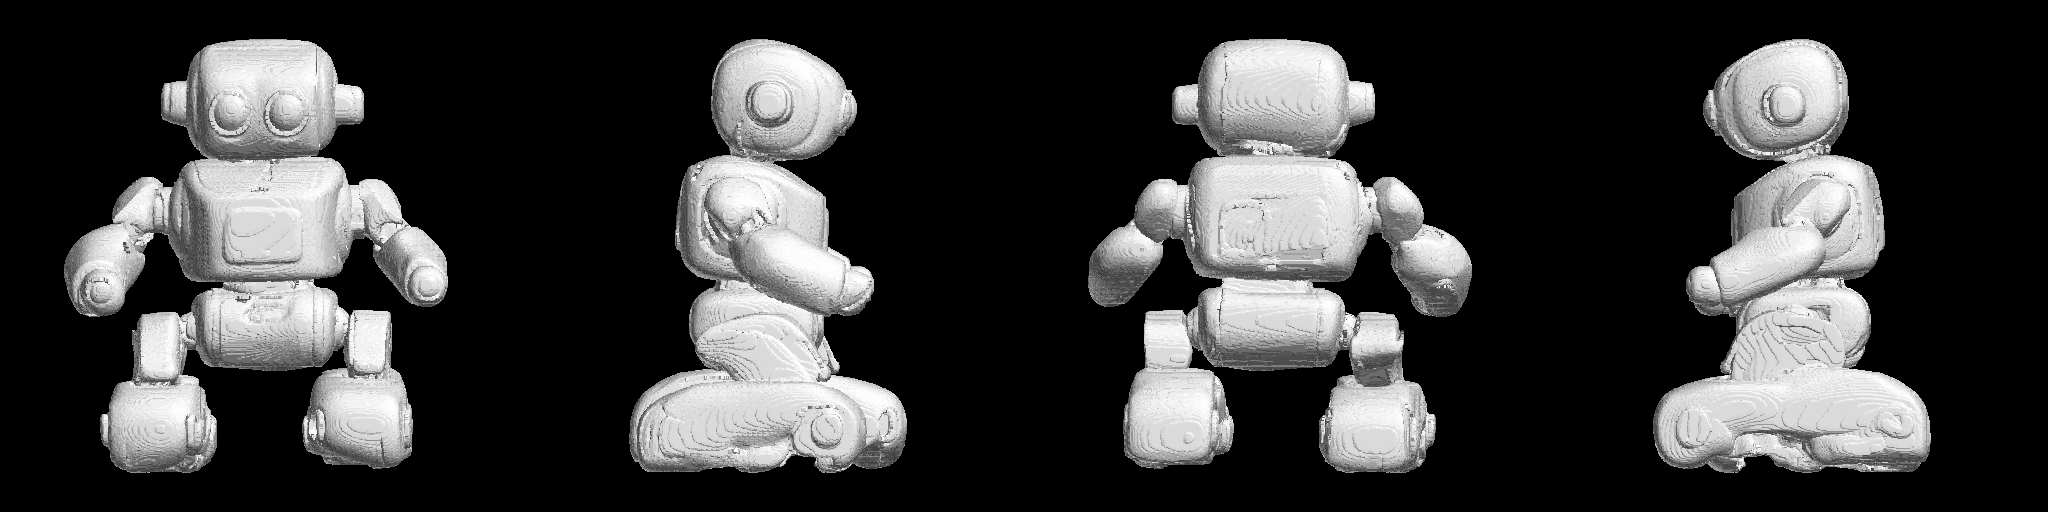
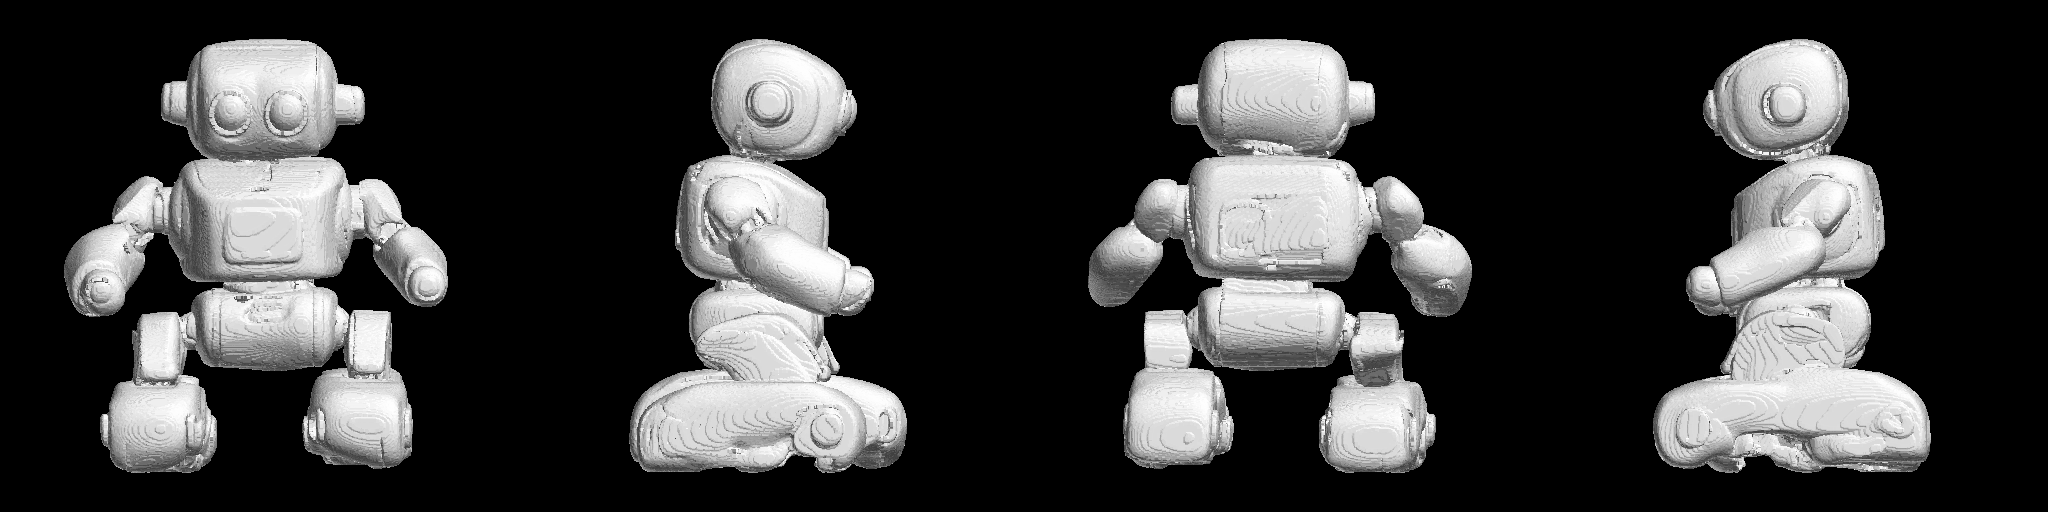
feat(trellis2): five rounds of Taubin take the lattice's terraces off
A surface crossing the lattice at a shallow angle comes out in steps.
Surface nets averages them away where a feature spans several cells and
has nothing to work with where it does not: the dragon's wing membranes
are one or two cells thick and came out as flat terraces a cell apart,
which is what read as the membrane being ruined.

Taubin's second pass is what makes smoothing safe here. The positive pass
is an ordinary Laplacian, which takes the steps off and pulls the model
in; the negative pass pushes back out at a slightly larger factor, and
the pair leaves the volume where it was - measured 1.0017x on the dragon
and 1.0007x at five rounds, with the median vertex moving 0.13 of a cell
and the 99th centile 0.28. **Creases survive it**: the beetle's panel
lines and the recess in its head are still sharp at ten rounds, because a
crease is a feature the whole neighbourhood agrees on and a terrace is
not. Five is the default; three already clears the terracing, ten begins
to soften a crease. It costs 2 s on the dragon and 7 s on the robot.

Three other approaches were measured and are not here. Carving at 1024
takes the steps off too and loses 13-14% of the solid's volume, because
the walls are relatively thinner on a finer lattice and the rays get
behind them. Swapping the chamfer distance in surface nets for the exact
Euclidean one changes the roughness by 0.001 of a cell and costs 8 s, so
the chamfer was never the problem. And putting the surface back where the
[…]

diff --git a/runners/trellis2/shell.py b/runners/trellis2/shell.py
@@ -99,9 +99,13 @@ class ShellReport:
     crossing_edges: int = 0
     faces: int = 0
     vertices: int = 0
+    smooth_rounds: int = 0
+    smooth_moved_cells: float = 0.0
+    smooth_moved_p99_cells: float = 0.0
     rasterize_sec: float = 0.0
     occupancy_sec: float = 0.0
     extract_sec: float = 0.0
+    smooth_sec: float = 0.0
     device: str = ""
 
     def as_dict(self) -> dict[str, Any]:
@@ -284,6 +288,50 @@ def _surface_nets(
     return trimesh.Trimesh(vertices=position, faces=triangles, process=False), int(len(quad))
 
 
+def _smooth_taubin(
+    vertices: np.ndarray, faces: np.ndarray, rounds: int, lam: float = 0.5, mu: float = -0.53
+) -> tuple[np.ndarray, float, float]:
+    """Take the lattice's terraces off the surface without shrinking it.
+
+    **A surface that crosses the lattice at a shallow angle comes out in
+    steps.** Surface nets places one vertex per boundary cell and averages the
+    crossings on its edges, which smooths a corner that spans several cells but
+    has nothing to work with on a membrane one or two cells thick: the dragon's
+    wings came out as flat terraces a cell apart, and no choice of distance
+    field moves them (measured 2026-09-13: swapping the chamfer distance for the
+    exact Euclidean one changed the roughness by 0.001 of a cell).
+
+    Taubin's two steps are what fixes it. The positive pass is an ordinary
+    Laplacian, which removes the steps and shrinks the model; the negative pass
+    pushes back out at a slightly larger factor, and the pair leaves the volume
+    where it was - measured 1.0017x on the dragon and 1.0007x on the beetle at
+    five rounds, with vertices moving a median of 0.13 and 0.18 of a cell.
+    **Creases survive it**: the beetle's panel lines and the recess in its head
+    are still sharp at ten rounds, because a crease is a feature the whole
+    neighbourhood agrees on and a terrace is not.
+
+    Returns the new vertices and how far they moved, median and 99th centile,
+    in the units the vertices are in.
+    """
+    if rounds <= 0:
+        return vertices, 0.0, 0.0
+    edges = np.concatenate([faces[:, [0, 1]], faces[:, [1, 2]], faces[:, [2, 0]]])
+    edges = np.concatenate([edges, edges[:, ::-1]])
+    who = edges[:, 0]
+    count = np.bincount(who, minlength=len(vertices)).astype(np.float64)
+    live = count > 0
+    safe = np.where(live, count, 1.0)[:, None]
+    moving = vertices.copy()
+    for _ in range(int(rounds)):
+        for step in (lam, mu):
+            total = np.zeros_like(moving)
+            np.add.at(total, who, moving[edges[:, 1]])
+            delta = np.where(live[:, None], total / safe - moving, 0.0)
+            moving += step * delta
+    moved = np.linalg.norm(moving - vertices, axis=1)
+    return moving, float(np.median(moved)), float(np.percentile(moved, 99))
+
+
 def _drop_islands(
     solid: np.ndarray, min_corners: int, structure: np.ndarray
 ) -> tuple[np.ndarray, int, int]:
@@ -317,6 +365,7 @@ def solidify(
     fill_cavities: bool = True,
     device: str | None = None,
     island_corners: int = 64,
+    smooth: int = 5,
 ) -> tuple[trimesh.Trimesh, ShellReport]:
     """Turn a surface into a closed solid.
 
@@ -337,6 +386,13 @@ def solidify(
         fill_cavities: Band only. Fill every pocket the outside cannot reach.
             Carving always fills them.
         device: Where the rays run; `None` picks the GPU when there is one.
+        smooth: Rounds of Taubin smoothing on the extracted surface, which is
+            what takes the lattice's terraces off a thin wall (see
+            `_smooth_taubin`). **Measured 5** (2026-09-13): three already
+            removes the terracing on the dragon's wings, five is smoother
+            still, and at ten the beetle's panel lines are beginning to soften.
+            The volume moves by 0.07-0.17% and the median vertex by a fifth of
+            a cell. 0 turns it off.
         island_corners: Carving only. A piece of solid not connected to the
             rest and smaller than this many corners is air. **Measured 64**
             (2026-09-12, 512 specimen): the strays are 1-4 cells across, and
@@ -454,9 +510,24 @@ def solidify(
     shell, crossings = _surface_nets(solid, distance, pad, scale, origin)
     del solid, distance
     report.crossing_edges = crossings
+    report.extract_sec = round(time.perf_counter() - mark, 2)
+
+    if smooth > 0:
+        mark = time.perf_counter()
+        cell = 1.0 / max(int(grid), 1) * max(extent, 1e-12)
+        moved, median, p99 = _smooth_taubin(
+            np.asarray(shell.vertices, dtype=np.float64),
+            np.asarray(shell.faces, dtype=np.int64),
+            int(smooth),
+        )
+        shell = trimesh.Trimesh(vertices=moved, faces=shell.faces, process=False)
+        report.smooth_rounds = int(smooth)
+        report.smooth_moved_cells = round(median / cell, 3)
+        report.smooth_moved_p99_cells = round(p99 / cell, 3)
+        report.smooth_sec = round(time.perf_counter() - mark, 2)
+
     report.faces = int(len(shell.faces))
     report.vertices = int(len(shell.vertices))
-    report.extract_sec = round(time.perf_counter() - mark, 2)
     return shell, report
 
 

diff --git a/tests/test_shell.py b/tests/test_shell.py
@@ -201,6 +201,43 @@ def test_a_speck_in_the_air_is_not_part_of_the_carved_solid() -> None:
     assert report.solid_corners == report_kept.solid_corners - report.island_corners_dropped
 
 
+def test_the_smoothing_takes_the_terraces_off_and_leaves_the_volume() -> None:
+    """Taubin's two passes remove the lattice's steps without shrinking the solid.
+
+    A sphere is the case that shows both halves: every step on it is the
+    lattice's, so roughness has to fall a long way, and a Laplacian alone would
+    pull it in. The volume is what says the negative pass is doing its job.
+    """
+    ball = trimesh.creation.icosphere(subdivisions=4)
+    rough, report = solidify(ball, grid=64, mode="carve", smooth=0)
+    smooth, smooth_report = solidify(ball, grid=64, mode="carve", smooth=5)
+
+    assert report.smooth_rounds == 0, report.smooth_rounds
+    assert smooth_report.smooth_rounds == 5, smooth_report.smooth_rounds
+    assert len(smooth.vertices) == len(rough.vertices), "smoothing must not retopologize"
+    assert len(smooth.faces) == len(rough.faces)
+
+    def roughness(mesh: trimesh.Trimesh) -> float:
+        """Mean distance from a vertex to the average of its neighbours."""
+        v = np.asarray(mesh.vertices, dtype=np.float64)
+        f = np.asarray(mesh.faces, dtype=np.int64)
+        e = np.concatenate([f[:, [0, 1]], f[:, [1, 2]], f[:, [2, 0]]])
+        e = np.concatenate([e, e[:, ::-1]])
+        total = np.zeros_like(v)
+        np.add.at(total, e[:, 0], v[e[:, 1]])
+        count = np.bincount(e[:, 0], minlength=len(v)).astype(np.float64)
+        live = count > 0
+        return float(np.linalg.norm(total[live] / count[live, None] - v[live], axis=1).mean())
+
+    before, after = roughness(rough), roughness(smooth)
+    assert after < 0.5 * before, (before, after)
+    assert 0.97 < smooth.volume / rough.volume < 1.03, smooth.volume / rough.volume
+    # **The report has to say how far it moved**, because that is the only
+    # number telling an operator whether the surface they asked to keep is
+    # still where they left it.
+    assert 0.0 < smooth_report.smooth_moved_cells < 1.0, smooth_report.smooth_moved_cells
+
+
 def main() -> int:
     """Run every test."""
     tests = [v for k, v in sorted(globals().items()) if k.startswith("test_")]

diff --git a/runners/trellis2/config.py b/runners/trellis2/config.py
@@ -376,6 +376,17 @@ SHELL_FILL_CAVITIES: bool = _bool("TRELLIS2_SHELL_FILL_CAVITIES", True)
 # 0 keeps every piece. `metrics.post.shell.islands_dropped` counts them.
 SHELL_ISLAND_CORNERS: int = _int("TRELLIS2_SHELL_ISLAND_CORNERS", 64)
 
+# Carve only: rounds of Taubin smoothing on the extracted surface. **A surface
+# that crosses the lattice at a shallow angle comes out in steps**, and surface
+# nets cannot smooth them on a wall one or two cells thick - the dragon's wings
+# came out as flat terraces a cell apart. Taubin's second, negative pass is what
+# makes this safe: the volume moves 0.07-0.17% and the median vertex a fifth of
+# a cell, while the beetle's panel lines are still sharp at twice this many
+# rounds. **Measured 5** (2026-09-13): three already clears the terracing, five
+# is smoother, ten begins to soften a crease. 0 turns it off, and the surface is
+# then exactly the boundary of the lattice's occupancy.
+SHELL_SMOOTH: int = _int("TRELLIS2_SHELL_SMOOTH", 5)
+
 # Separate the touching sheets, cut what cannot be oriented, and close the
 # seams, so that the mesh is a closed orientable manifold. **After the shell
 # this only separates surface-nets sheets that touch along an edge** and

diff --git a/runners/trellis2/pipeline.py b/runners/trellis2/pipeline.py
@@ -1138,6 +1138,7 @@ def _postprocess(
             thickness=config.SHELL_THICKNESS,
             fill_cavities=config.SHELL_FILL_CAVITIES,
             island_corners=config.SHELL_ISLAND_CORNERS,
+            smooth=config.SHELL_SMOOTH,
         )
         report["shell"] = shell_report.as_dict()
         report["shell_sec"] = round(time.perf_counter() - mark, 2)

diff --git a/README.md b/README.md
@@ -44,7 +44,7 @@ runner reports `forward_axis: null` and why these were turned by hand
 
 ![TRELLIS.1 mesh](assets/trellis1_mesh.png)
 
-**TRELLIS.2 at 1024** — 1,503,346 faces, a solid carved out of the surface:
+**TRELLIS.2 at 1024** — 1,502,600 faces, a solid carved out of the surface:
 watertight, one part, and what gets printed.
 
 ![TRELLIS.2 mesh](assets/trellis2_mesh.png)
@@ -73,18 +73,25 @@ held against the image it came from.
 The legs keep their segments and the horn its curve; the wing membranes come
 through with the ribs in them, and the tail keeps its spikes.
 
-**Two things these do not do, both measured.** Corners read as softened, and
-**the decoder is not what softens them** - generated with the carve off, its
-own surface comes out at 7,402,100 faces with the panel creases and the
-cylinders sharp. What blunts them is the carve, which rebuilds the model as a
-printable solid on a lattice of 512 cells - 0.16 mm on an 80 mm print - and
-leaves that quantisation behind as a fine corduroy on flat panels. Carving on
-the lattice the shape was decoded on (`TRELLIS2_SHELL_GRID=1024`) takes the
-corduroy off and cost 102 s more on the beetle, **but it is not simply better**
-- the rays reach further through the gaps that are left, and the solid loses
-9-15% of its volume. It buys a different solid, not a finer one, which is why
-512 is the default. `TRELLIS2_SHELL=off` hands back the decoder's surface,
-which is sharper still and neither watertight nor printable.
+**What the lattice costs, and what is done about it.** The carve rebuilds the
+model as a printable solid on a lattice of 512 cells, 0.16 mm on an 80 mm
+print, and a surface crossing that lattice at a shallow angle comes out in
+steps. Surface nets averages them away where a feature spans several cells and
+cannot where it does not: the dragon's wings are one or two cells thick, and
+they came out as flat terraces. **Five rounds of Taubin smoothing take those
+off** (`TRELLIS2_SHELL_SMOOTH`), which is the second pass being a push back out
+rather than a second pull in - the volume moves 0.07-0.17% and the median
+vertex a fifth of a cell, and the beetle's panel lines are still sharp at twice
+as many rounds. It costs about 5 s.
+
+Two things that do not work, both measured. Carving on the lattice the shape
+was decoded on (`TRELLIS2_SHELL_GRID=1024`) takes the steps off too, **but it
+is not simply better**: the rays reach further through the gaps that are left,
+and the solid loses 13-14% of its volume. And putting the surface back exactly
+where the decoder drew it collapses every thin wall to nothing, because the
+decoder's membranes have no thickness to begin with and both sides of the slab
+land on the same sheet. `TRELLIS2_SHELL=off` hands back that surface, which is
+sharper than anything here and neither watertight nor printable.
 
 **And the colour comes out flatter than the image**: the beetle's red and blue
 trim is gone. Counting pixels whose strongest and weakest channel
@@ -197,22 +204,22 @@ is quoted is the median of the rest:
 |---|--:|--:|--:|
 | Load the weights | 15.2 s | 63.6 s | 63.4 s |
 | Preprocess and condition | 0.4 s | 1.9 s | 3.2 s |
-| Sparse structure | 13.2 s | 16.9 s | 19.9 s |
+| Sparse structure | 13.2 s | 16.9 s | 19.8 s |
 | Structured latent | 31.6 s | 22.2 s | 163.0 s |
 | Decode to a mesh | 2.6 s | 5.2 s | 19.7 s |
-| **Generate the shape** | **47.7 s** | **46.2 s** | **205.6 s** |
-| Sample the texture latent | — | 13.2 s | 93.8 s |
-| Post-processing | 22.4 s | 40.5 s | 85.4 s |
-| **End to end, weights already loaded** | **70.1 s** | **103.1 s** | **387.0 s** |
-| Faces out | 517,498 | 1,503,006 | 1,503,346 |
-| Peak VRAM | 12.6 GB | 5.9 GB | 16.5 GB |
+| **Generate the shape** | **47.7 s** | **46.3 s** | **205.6 s** |
+| Sample the texture latent | — | 13.2 s | 93.9 s |
+| Post-processing | 22.4 s | 46.3 s | 90.5 s |
+| **End to end, weights already loaded** | **70.1 s** | **108.4 s** | **391.9 s** |
+| Faces out | 517,498 | 1,502,212 | 1,502,600 |
+| Peak VRAM | 12.6 GB | 5.8 GB | 16.5 GB |
 
 **They are not the same job.** TRELLIS.1 generates a surface and cleans it;
 TRELLIS.2 also samples a second latent for colour, carves a printable solid
 out of the surface, decodes the colours onto that solid's own grid and bakes a
-2048² texture — which is where its post-processing goes (at 1024: 12.7 s to
-decimate, 15.8 s to carve, 40.4 s for the colours, 5.3 s for the atlas, 6.9 s
-to make it a manifold). Both come back watertight, in one part and
+2048² texture — which is where its post-processing goes (at 1024: 13.0 s to
+decimate, 22.2 s to carve and smooth, 39.4 s for the colours, 5.4 s for the
+atlas, 6.2 s to make it a manifold). Both come back watertight, in one part and
 consistently wound, checked on the meshes these numbers came from.
 
 TRELLIS.1's post-processing was 60 s when this table was first written; the
